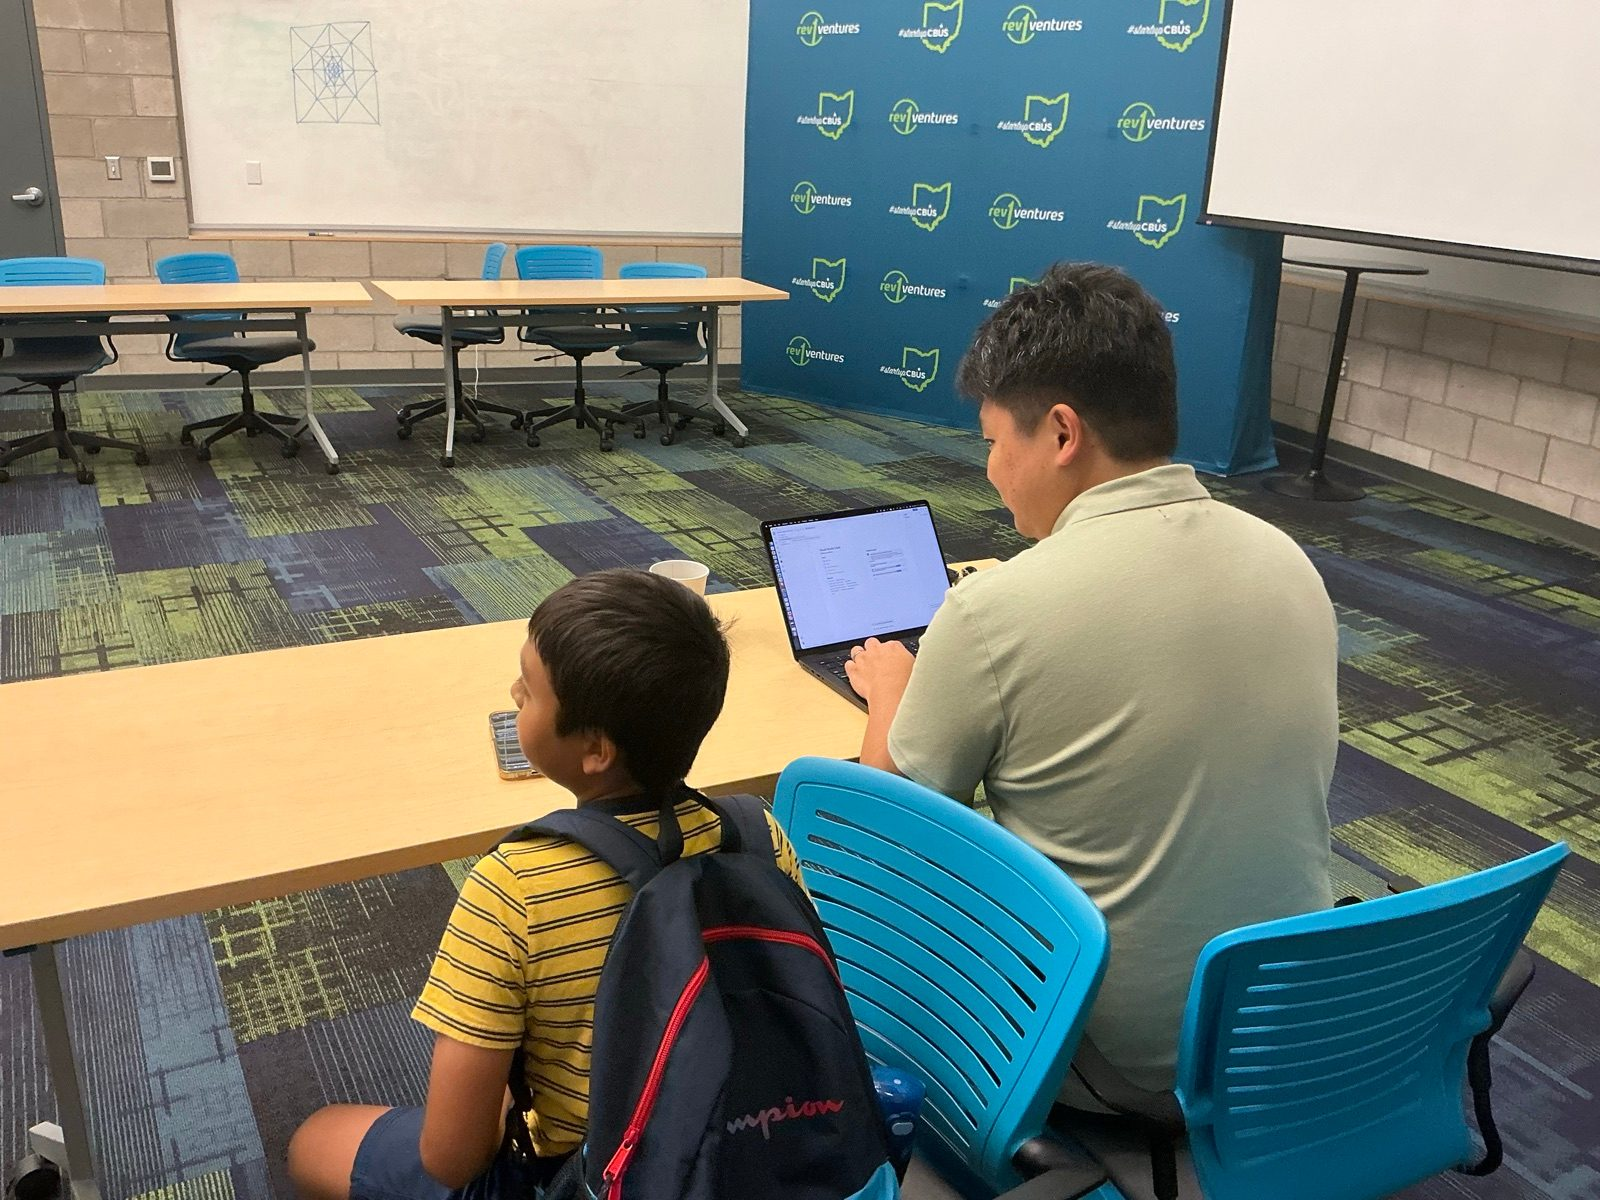
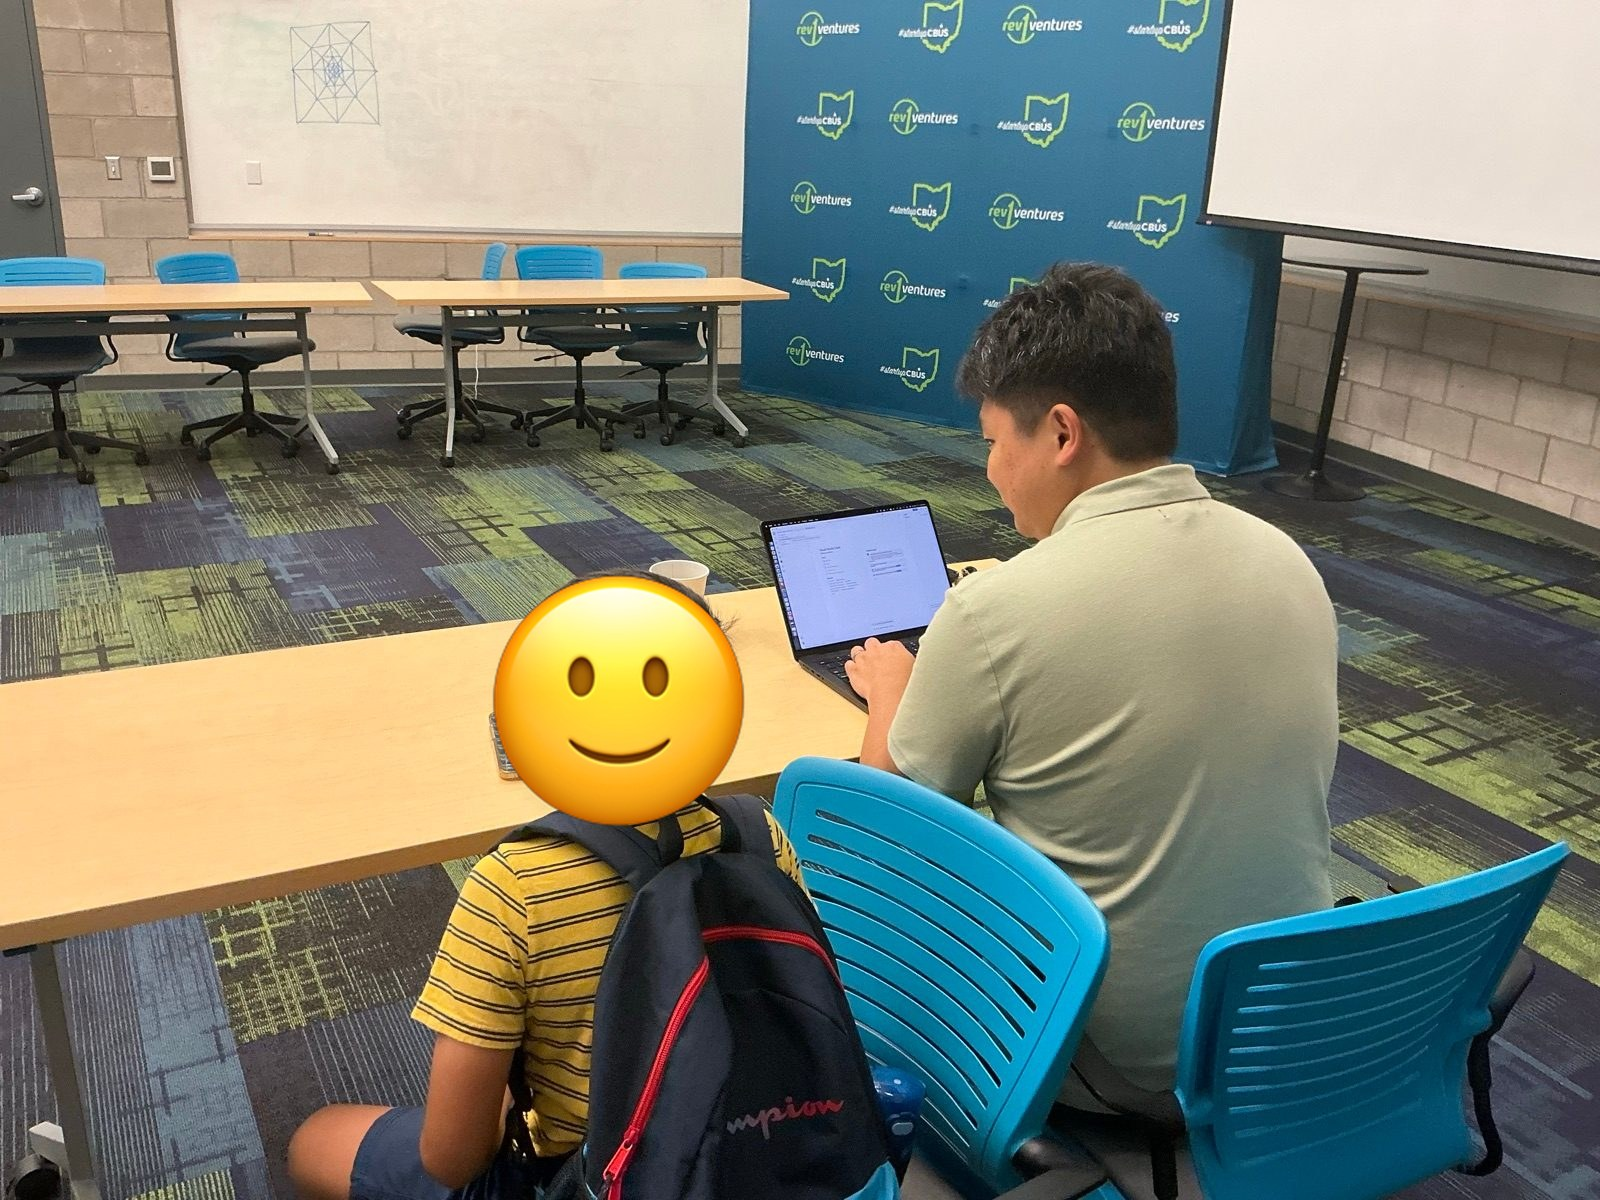
Add smiley overlays to remaining build-day photos

Changed region(s): [[0.2812, 0.4625, 0.4688, 0.7092]]

diff --git a/hackathon-log/README.md b/hackathon-log/README.md
@@ -153,3 +153,9 @@ The [picture log](photos/README.md) captures the team’s build-day story.
 
 - Rotated the 1:31 PM coloring break, 1:43 PM lunch, and 2:42 PM tablet test photos 90 degrees clockwise. The earlier HEIC conversion dropped the orientation flag without applying it, so the three portrait shots displayed sideways.
 - Re-checked the three JPEGs after rotation: 1200×1600 portrait, no EXIF or GPS markers, captions in the picture log still accurate.
+
+### 15:05 EDT — Smiley overlay on the remaining photos
+
+- Added the same smiley emoji over Bruce's face in the five photos that showed any part of it: 11:44 AM building together, 1:02 PM requirements review, 1:31 PM coloring break, 1:43 PM lunch, and 2:42 PM tablet test. The two photos from earlier in the day already had it.
+- Rendered the overlay from the system emoji font at the head size of each photo and re-encoded the JPEGs at the same web-friendly dimensions with no EXIF or GPS data.
+- Checked all seven photos visually so the picture log and the social post use the same set.
